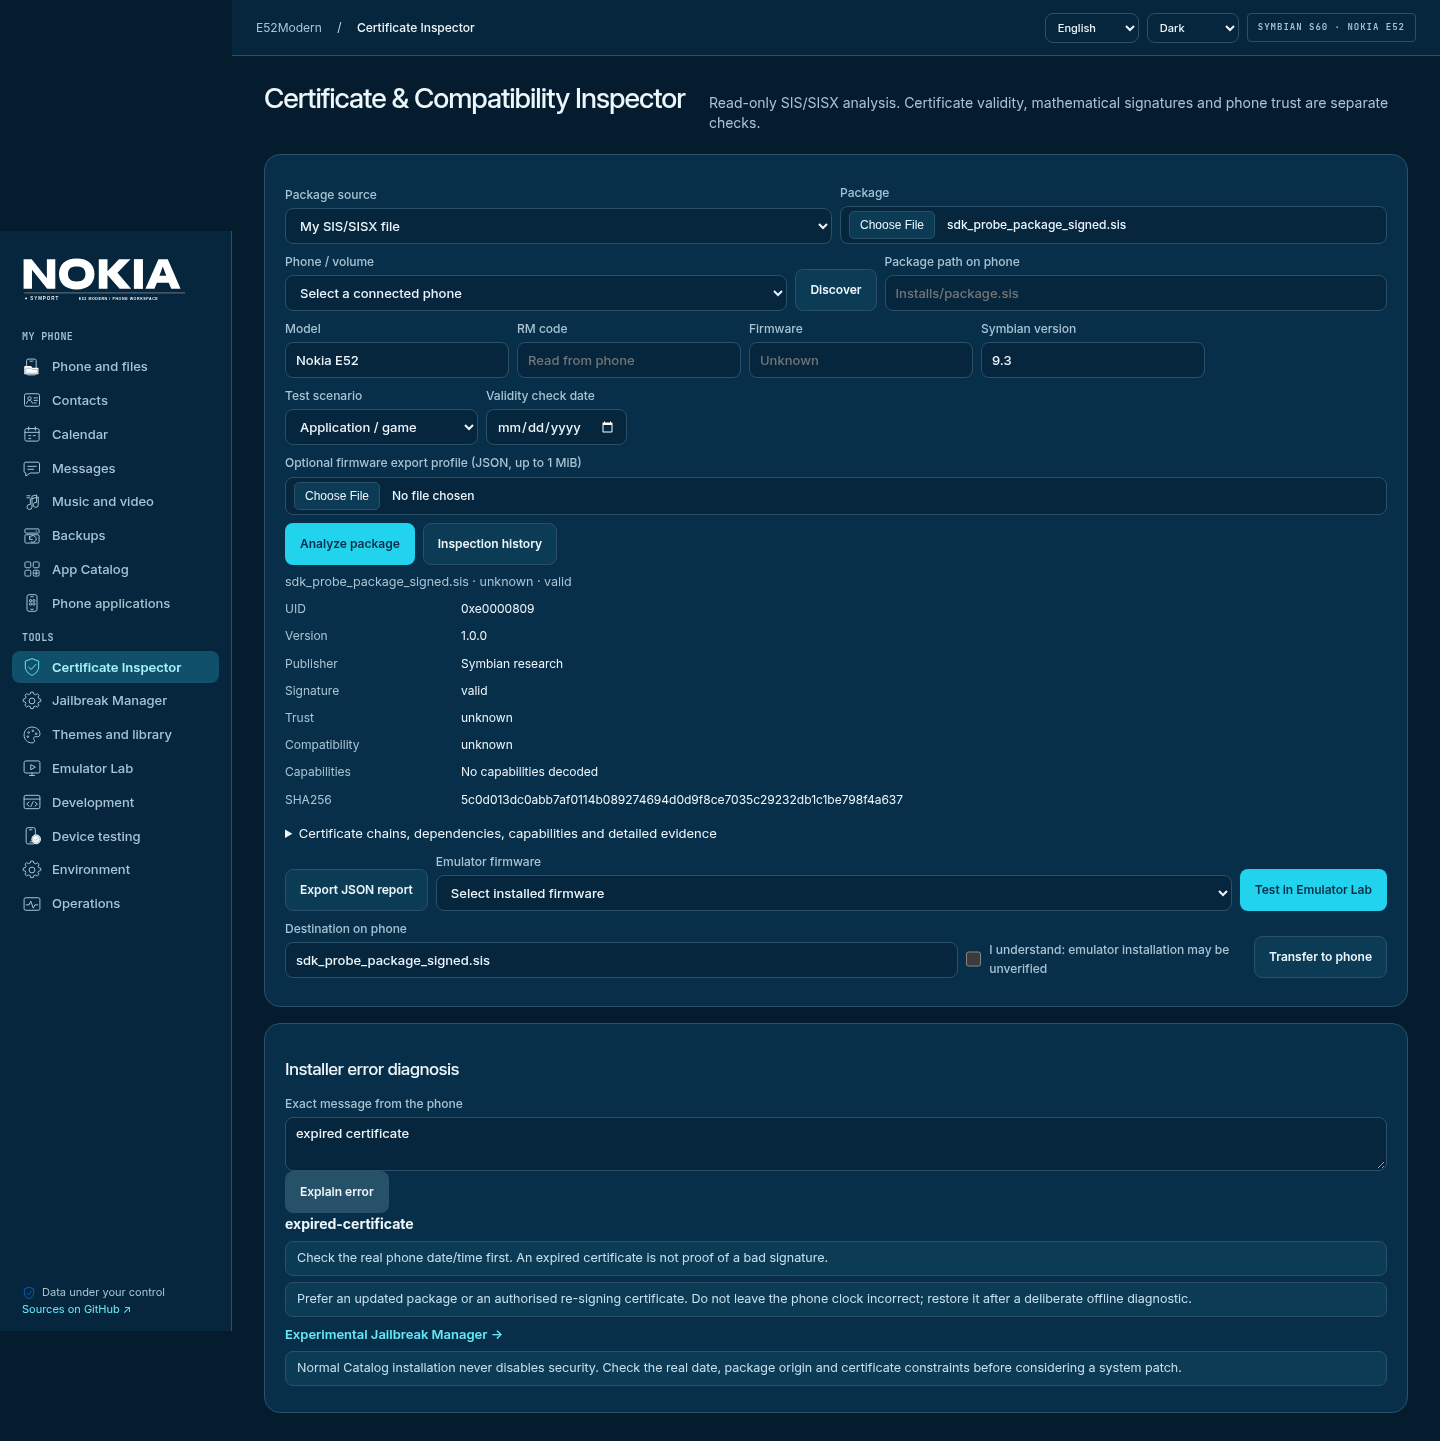
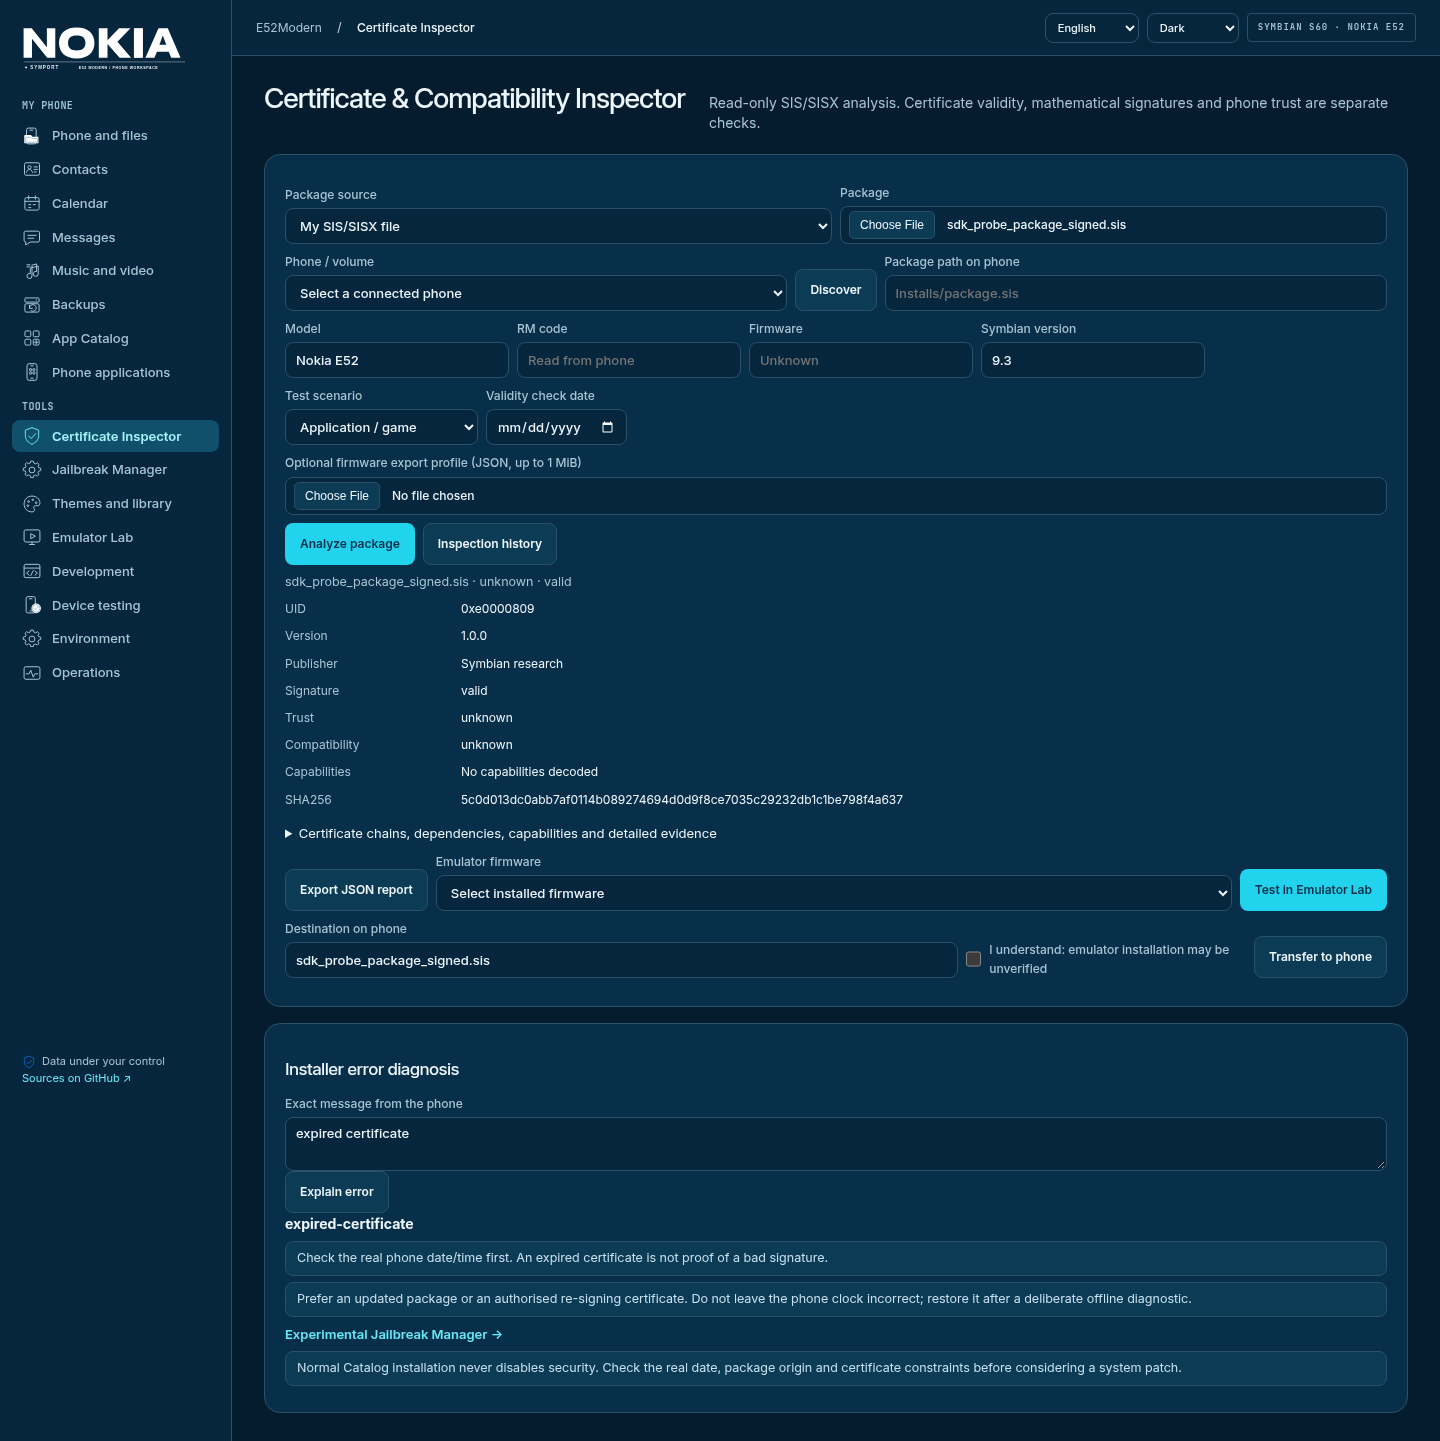
Keep navigation anchored on long pages with an independently scrolling menu

diff --git a/symport/web_assets/nimbus.css b/symport/web_assets/nimbus.css
@@ -3,8 +3,15 @@
 @font-face{font-family:JetBrains;src:url('/fonts/JetBrainsMono.ttf') format('truetype');font-weight:100 800;font-display:swap}
 :root{--bg:#fff;--panel:#fff;--panel2:#f4f8fb;--border:#e5e7eb;--text:#111827;--muted:#4b5563;--blue:#0e74e9;--cyan:#22d3ee;--surface:#082f49;--radius:16px}
 body{font-family:Inter,'Segoe UI',sans-serif;line-height:1.6}h1,h2,h3,.brand-title,.brand-mark{font-family:Inter,'Segoe UI',sans-serif;font-weight:500}h1,h2{letter-spacing:-.035em}.brand-mark{background:var(--surface);color:var(--cyan);border-radius:8px}.brand-mark span{color:var(--cyan);background:var(--surface)}.brand-title{letter-spacing:-.6px;font-weight:600}.nav-label,.eyebrow,.target,.status,code,pre{font-family:JetBrains,Consolas,monospace}.nav-label,.eyebrow{letter-spacing:.04em;font-weight:600}.nav-link{font-weight:500;border-radius:8px}.nav-link.active{background:#cffafe;color:#083344;font-weight:600}.nav-link:hover{background:#ecfeff}.page-heading .eyebrow,.text-link,.job summary{color:#0e74e9}.sidebar{width:220px;padding:20px 12px 12px;background:#fafcfe}.brand{margin-bottom:24px}.topbar{height:56px;background:#fff}.content{padding-top:24px}.page-heading{margin-bottom:20px;gap:6px 24px}.page-heading h1{font-size:28px;letter-spacing:-1px}.page-heading p{font-size:14px;color:var(--muted)}.card,.hero,.quick-card,.theme-card,.catalog-app,.job{border-radius:16px}.card{padding:20px;margin-top:16px}.card-head{margin-bottom:16px}.card-head h2,.card-head h3{font-size:17px;font-weight:500}.btn{border-radius:8px;font-size:12px;padding:8px 14px}.btn.primary{background:#0e74e9;color:#fff}.btn.primary:hover:enabled{background:#075fc2}.btn.secondary{border-color:#d1d5db}.btn.ghost{color:#0e74e9}.chip,.status{border-radius:999px}.chip{background:#f4f8fb;border-color:#e5e7eb;color:#4b5563}.note,.disclaimer{background:#f4f8fb;border-color:#e5e7eb;border-radius:8px}.disclaimer{border-left:3px solid #22d3ee}.welcome-panel{border-radius:16px;background:#082f49;border-color:#082f49}.welcome-copy h2,.welcome-copy p{color:#f0f9ff}.welcome-copy .chip{background:#16455d;color:#67e8f9;border-color:#36667b}.welcome-panel .btn.primary{background:#22d3ee;color:#082f49}.phone-illustration{border-color:#22d3ee;box-shadow:8px 10px 0 #0e4965}.phone-screen{background:#cffafe;color:#082f49}.suite-tile{border-radius:16px}.suite-tile:hover,.quick-card:hover{border-color:#22d3ee}.tile-icon,.quick-symbol,.catalog-app-icon{color:#0e74e9;background:#ecfeff;border-color:#cffafe}.catalog-app-icon{font-family:Inter,sans-serif}.package-row a{color:#0e74e9}.two-column{gap:16px}.catalog-grid,.suite-grid,.quick-grid{gap:16px}pre{font-size:11px}input,select,textarea{border-radius:8px;min-height:36px}a:focus-visible,button:focus-visible,summary:focus-visible{outline-color:#0e74e9}.upload-zone:focus-within,.upload-zone.dragging{border-color:#0e74e9;box-shadow:0 0 0 3px #22d3ee33}.toast{background:#082f49}
+/* The outer rail stretches with the document; its controls stay in the viewport.
+   Only the menu scrolls on short screens, keeping the logo and footer reachable. */
+.sidebar{align-self:stretch;position:relative;height:auto;padding:0;overflow:visible;display:block}
+.sidebar-panel{position:sticky;top:0;height:100vh;height:100dvh;padding:20px 12px 12px;display:flex;flex-direction:column}
+.sidebar-panel>.brand,.sidebar-bottom{flex-shrink:0}
+.sidebar-menu{flex:1;min-height:0;overflow-y:auto;overscroll-behavior-y:contain;scrollbar-width:thin}
+.sidebar-menu>.nav-label:first-child{margin-top:0}
 @media(min-width:1400px){.content{padding-left:32px;padding-right:32px}.sidebar{width:232px}}
-@media(max-width:760px){.sidebar{width:100%;padding:12px}.brand{margin-bottom:8px}.topbar{height:40px}.content{padding:16px 12px 32px}.page-heading h1{font-size:24px}.card{padding:16px}.welcome-panel{padding:20px}.page-heading p{font-size:13px}.lib-card{gap:10px}}
+@media(max-width:760px){.sidebar{width:100%;padding:0}.sidebar-panel{position:static;height:auto;padding:12px}.sidebar-menu{overflow:visible;flex:none}.brand{margin-bottom:8px}.topbar{height:40px}.content{padding:16px 12px 32px}.page-heading h1{font-size:24px}.card{padding:16px}.welcome-panel{padding:20px}.page-heading p{font-size:13px}.lib-card{gap:10px}}
 /* User-supplied Nokia / SymPort vector artwork, themed at the consumer layer. */
 .brand{display:block;margin:0 4px 24px}.brand-lockup{display:block;width:100%;height:auto;max-width:208px}.asset-icon{width:20px;height:20px;flex:none;vertical-align:middle}.asset-icon [stroke="#0F172A"]{stroke:currentColor}.asset-tile{display:block;width:44px;height:44px;flex:none;margin-bottom:8px}.asset-tile>rect:first-child{fill:#ecfeff}.asset-tile>rect:nth-child(2){stroke:#cffafe}.asset-tile>circle{fill:#22d3ee}.asset-tile>g{color:#0e74e9}.nav-link .asset-icon{width:20px;height:20px}.btn .asset-icon{width:17px;height:17px}.sidebar-bottom>.asset-icon{width:14px;height:14px;margin-right:3px;color:#0e74e9}.mini-tile{border-radius:16px;padding:12px}.mini-tile:hover{border-color:#22d3ee}.quick-card .asset-tile{width:48px;height:48px}.nav-link.active .asset-icon{color:#0e74e9}
 @media(max-width:760px){.brand{margin:0 4px 10px}.brand-lockup{width:170px}.nav-link .asset-icon{display:block;width:18px;height:18px}.mini-tile{padding:12px}.asset-tile{width:40px;height:40px}}

diff --git a/symport/web_assets/index.html b/symport/web_assets/index.html
@@ -27,9 +27,11 @@
 <body>
 <div class="shell">
   <aside class="sidebar">
+    <div class="sidebar-panel">
     <a class="brand" href="#manager" aria-label="SymPort, телефон">
       <img class="brand-lockup" src="/brand/nokia-symport-horizontal.svg" width="1050" height="286" alt="Nokia / SymPort — E52Modern">
     </a>
+    <div class="sidebar-menu">
     <div class="nav-label">МОЙ ТЕЛЕФОН</div>
     <nav aria-label="Телефон">
       <a href="#manager" class="nav-link" data-nav="manager"><svg class="asset-icon" aria-hidden="true" focusable="false" xmlns="http://www.w3.org/2000/svg" width="48" height="48" viewBox="0 0 48 48"><g fill="none" stroke="#0F172A" stroke-width="2.4" stroke-linecap="round" stroke-linejoin="round"><rect x="11" y="5" width="23" height="38" rx="4"/><path d="M19 10h7M20 38h5"/><path d="M7 23h14l3 4h14v13H7z" fill="#FFFFFF" stroke="#FFFFFF" stroke-width="3"/><path d="M9 27h12l3 3h13v9H9z"/></g></svg> Телефон и файлы</a>
@@ -52,10 +54,12 @@
       <a href="#overview" class="nav-link" data-nav="overview"><svg class="asset-icon" aria-hidden="true" focusable="false" xmlns="http://www.w3.org/2000/svg" width="48" height="48" viewBox="0 0 48 48"><g fill="none" stroke="#0F172A" stroke-width="2.4" stroke-linecap="round" stroke-linejoin="round"><path d="M21 5h6l1.4 5 4 1.8 4.6-2.5 4 4-2.5 4.6 1.8 4L45 23v6l-5 1.4-1.8 4 2.5 4.6-4 4-4.6-2.5-4 1.8L27 47h-6l-1.4-5-4-1.8-4.6 2.5-4-4 2.5-4.6-1.8-4L3 29v-6l5-1.4 1.8-4L7.3 13l4-4 4.6 2.5 4-1.8Z" transform="translate(0 -2) scale(1 .94)"/><circle cx="24" cy="24" r="7"/></g></svg> Окружение</a>
       <a href="#activity" class="nav-link" data-nav="activity"><svg class="asset-icon" aria-hidden="true" focusable="false" xmlns="http://www.w3.org/2000/svg" width="48" height="48" viewBox="0 0 48 48"><g fill="none" stroke="#0F172A" stroke-width="2.4" stroke-linecap="round" stroke-linejoin="round"><rect x="5" y="9" width="38" height="30" rx="4"/><path d="M10 26h7l4-9 6 17 4-8h7"/></g></svg> Операции</a>
     </nav>
+    </div>
     <div class="sidebar-bottom">
       <svg class="asset-icon" aria-hidden="true" focusable="false" xmlns="http://www.w3.org/2000/svg" width="48" height="48" viewBox="0 0 48 48"><g fill="none" stroke="#0F172A" stroke-width="2.4" stroke-linecap="round" stroke-linejoin="round"><path d="M24 4 40 10v13c0 10-7 17-16 21C15 40 8 33 8 23V10L24 4Z"/><path d="m16 24 6 6 11-12"/></g></svg> Данные под вашим контролем
       <p>Весь код выполняется на сервере. Установка на E52 подтверждается отдельно.</p>
       <a target="_blank" rel="noopener noreferrer" href="https://github.com/grayhex/e52modern">Исходники на GitHub ↗</a>
+    </div>
     </div>
   </aside>
   <main class="main">
